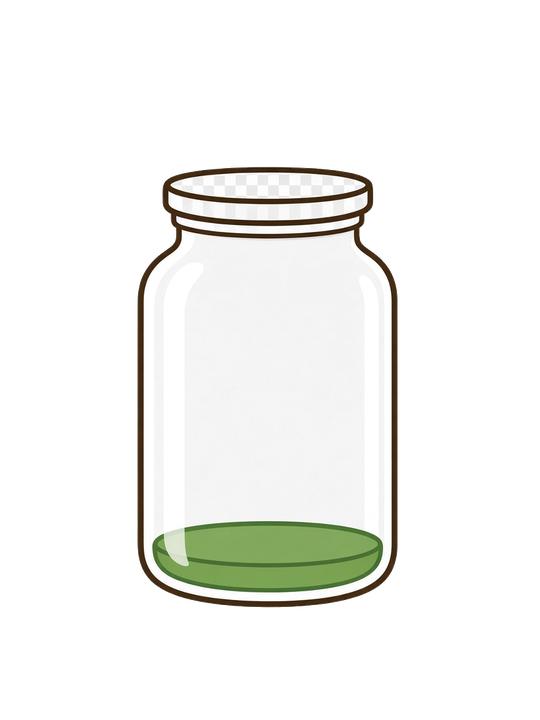
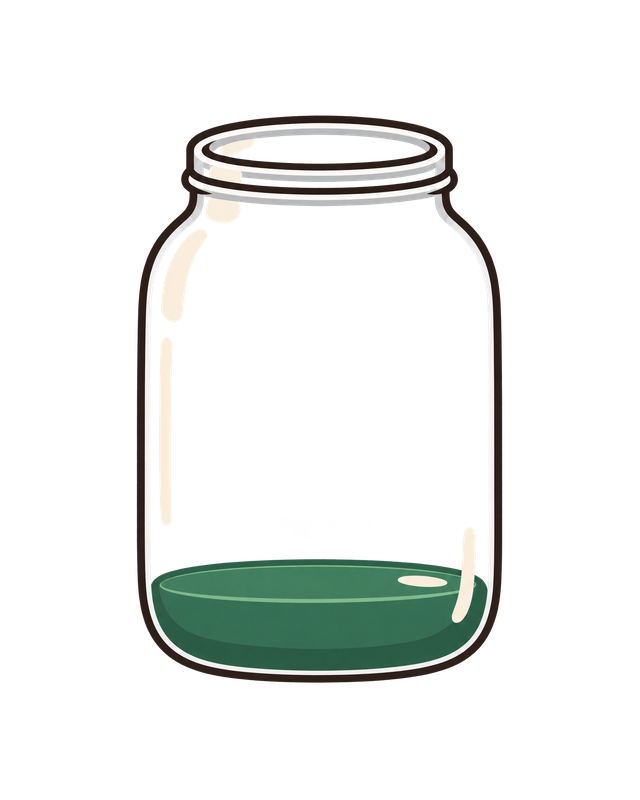
Swap the tax page art for the new illustration set.
The uploaded drawings replace the earlier pictures, and the job icons that were not in the new set are removed.

Changed region(s): [[0.2074, 0.1222, 0.8, 0.8556]]

diff --git a/tax/app.js b/tax/app.js
@@ -6,7 +6,7 @@ import {
   estimateEmployeeMpf,
   incomeFromMonthly,
 } from "./calc.js";
-import { JOB_ART, art } from "./art.js";
+import { art } from "./art.js";
 
 const JOBS = ["文職", "IT", "零售", "飲食", "教育", "銷售", "醫療", "建造", "Freelance", "其他"];
 const app = document.getElementById("app");
@@ -243,12 +243,11 @@ function renderWelcome() {
 
 function renderJob() {
   shell(`
-    ${art("job")}
     <h2 class="text-3xl font-extrabold leading-tight">你做邊行㗎？</h2>
     <p class="mt-2">揀一個就得，純粹想親切啲。計稅唔會用到。</p>
     ${explainButton("job")}
     <div class="mt-4 grid grid-cols-2 gap-3">
-      ${JOBS.map((job) => `<button type="button" class="flex h-24 flex-col items-center justify-center gap-1 rounded-2xl border-2 text-base font-extrabold ${state.job === job ? "border-clay bg-clay text-white" : "border-line bg-paper"}" data-job="${escapeHtml(job)}"><img class="job-icon" src="tax/art/${JOB_ART[job]}.png" alt="">${escapeHtml(job)}</button>`).join("")}
+      ${JOBS.map((job) => `<button type="button" class="h-14 rounded-2xl border-2 text-lg font-extrabold ${state.job === job ? "border-clay bg-clay text-white" : "border-line bg-paper"}" data-job="${escapeHtml(job)}">${escapeHtml(job)}</button>`).join("")}
     </div>
     ${state.job === "其他" ? `<label class="mt-4 block font-extrabold">想寫得具體啲？<input id="job-other" class="mt-2 h-14 w-full rounded-2xl border-2 border-line bg-paper px-4 text-xl font-bold" maxlength="20" value="${escapeHtml(state.jobOther)}" placeholder="例如：設計師"></label>` : ""}
     <div class="mt-5 grid grid-cols-2 gap-3">
@@ -435,7 +434,7 @@ function renderResult() {
   const bill = calculateSalariesTax(income);
   const zero = bill.tax === 0;
   shell(`
-    ${zero ? art("calm") : art("receipt")}
+    ${zero ? art("calm") : ""}
     <p class="text-base font-extrabold text-clay">${escapeHtml(jobLabel())}，計好了。</p>
     <h2 class="mt-1 text-xl font-extrabold">${zero ? "你今年未使交稅。" : "你今年大約要交"}</h2>
     <p class="mt-2 text-5xl font-extrabold tracking-tight ${zero ? "text-leaf" : ""}" data-count="${bill.tax}">${money(0)}</p>
@@ -449,7 +448,6 @@ function renderResult() {
         ${explainButton("gross")}
       </div>
       <div>
-        ${art("piggy")}
         <p class="text-base text-ink/70">強積金已自動扣咗</p>
         <p class="text-2xl font-extrabold">− ${money(bill.mpf)}</p>
         ${explainButton("mpf")}
@@ -674,17 +672,16 @@ function paintTreasureResult() {
     <p class="mt-3 text-base">年金計得 ${money(split.annuityAllowed)}，TVC 計得 ${money(split.tvcAllowed)}，自願醫保計得 ${money(split.vhisAllowed)}。</p>
     <div class="mt-4 grid grid-cols-2 items-end gap-3">
       <div>
-        <div class="jar" aria-hidden="true"><span style="--h:${before.tax ? "100%" : "8%"}"></span></div>
+        ${art("jar-before")}
         <p class="mt-2 text-base">原先要交</p>
         <p class="text-3xl font-extrabold line-through decoration-ink/30">${money(before.tax)}</p>
       </div>
       <div>
-        <div class="jar after" aria-hidden="true"><span style="--h:${before.tax ? `${Math.max(8, Math.round((after.tax / before.tax) * 100))}%` : "8%"}"></span></div>
+        ${art("jar-after")}
         <p class="mt-2 text-base">買咗三寶後</p>
         <p class="text-3xl font-extrabold text-leaf">${money(after.tax)}</p>
       </div>
     </div>
-    ${saved > 0 ? art("savings") : ""}
     <div class="savings-pop relative mt-4 rounded-3xl bg-[#ffe8a3] p-5 text-center">
       ${saved > 0 ? `<div class="confetti">${Array.from({ length: 12 }, (_, index) => `<i style="--i:${index}"></i>`).join("")}</div>` : ""}
       <p class="text-xl font-extrabold">🎉 你總共慳返</p>

diff --git a/tax/motion.css b/tax/motion.css
@@ -1,16 +1,15 @@
 .art-img { display: block; width: 100%; height: 8.5rem; object-fit: contain; margin: 0 auto; }
 .art-shield, .art-future, .art-vault { height: 4.75rem; width: 4.75rem; }
-.art-calendar, .art-bonus, .art-bands, .art-warning, .art-savings { height: 6.5rem; }
-.job-icon { width: 2.4rem; height: 2.4rem; object-fit: contain; }
-.art-guide, .art-job, .art-coins, .art-income { animation: floaty 3.4s ease-in-out infinite; }
-.art-piggy, .art-wallet { animation: floaty 3.8s ease-in-out infinite; }
+.art-jar-before, .art-jar-after { height: 11rem; }
+.art-calendar, .art-bonus, .art-bands, .art-warning { height: 6.5rem; }
+.art-guide, .art-coins, .art-income { animation: floaty 3.4s ease-in-out infinite; }
+.art-wallet { animation: floaty 3.8s ease-in-out infinite; }
 
 .scene-in { animation: rise 0.45s ease both; }
 .art-guide .float-a { animation: floaty 3.2s ease-in-out infinite; }
 .art-guide .float-b,
 .art-wallet .float-a,
-.art-stack .float-b,
-.art-receipt .float-b { animation: floaty 3.6s ease-in-out infinite; }
+.art-stack .float-b { animation: floaty 3.6s ease-in-out infinite; }
 .art-stack .float-a { animation: floaty 2.8s ease-in-out infinite; }
 .wave { transform-origin: 134px 98px; animation: wave 1.4s ease-in-out infinite; }
 .pulse { animation: pulse 1.6s ease-in-out infinite; }

diff --git a/tax/art.js b/tax/art.js
@@ -1,16 +1,3 @@
 export function art(name) {
-  return `<img class="art-img art-${name}" src="tax/art/${name}.png" alt="">`;
+  return `<img class="art-img art-${name}" src="tax/art/${name}.png?v=3" alt="">`;
 }
-
-export const JOB_ART = {
-  文職: "job-office",
-  IT: "job-it",
-  零售: "job-retail",
-  飲食: "job-food",
-  教育: "job-teach",
-  銷售: "job-sales",
-  醫療: "job-medical",
-  建造: "job-build",
-  Freelance: "job-freelance",
-  其他: "job-other",
-};
